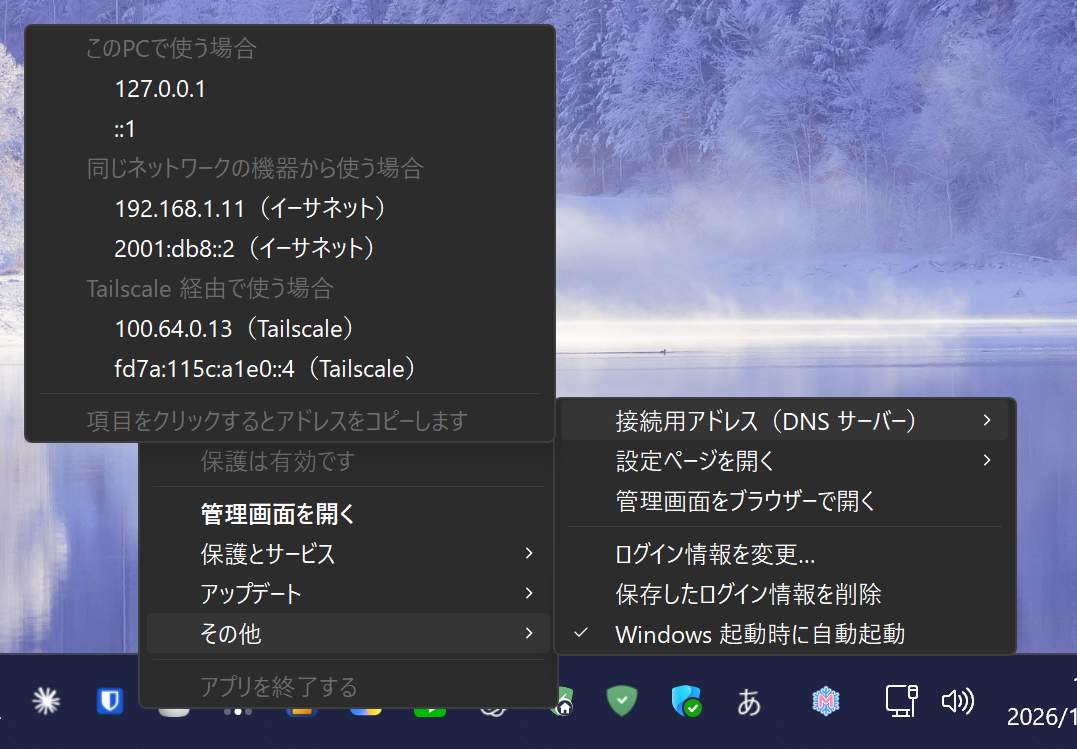
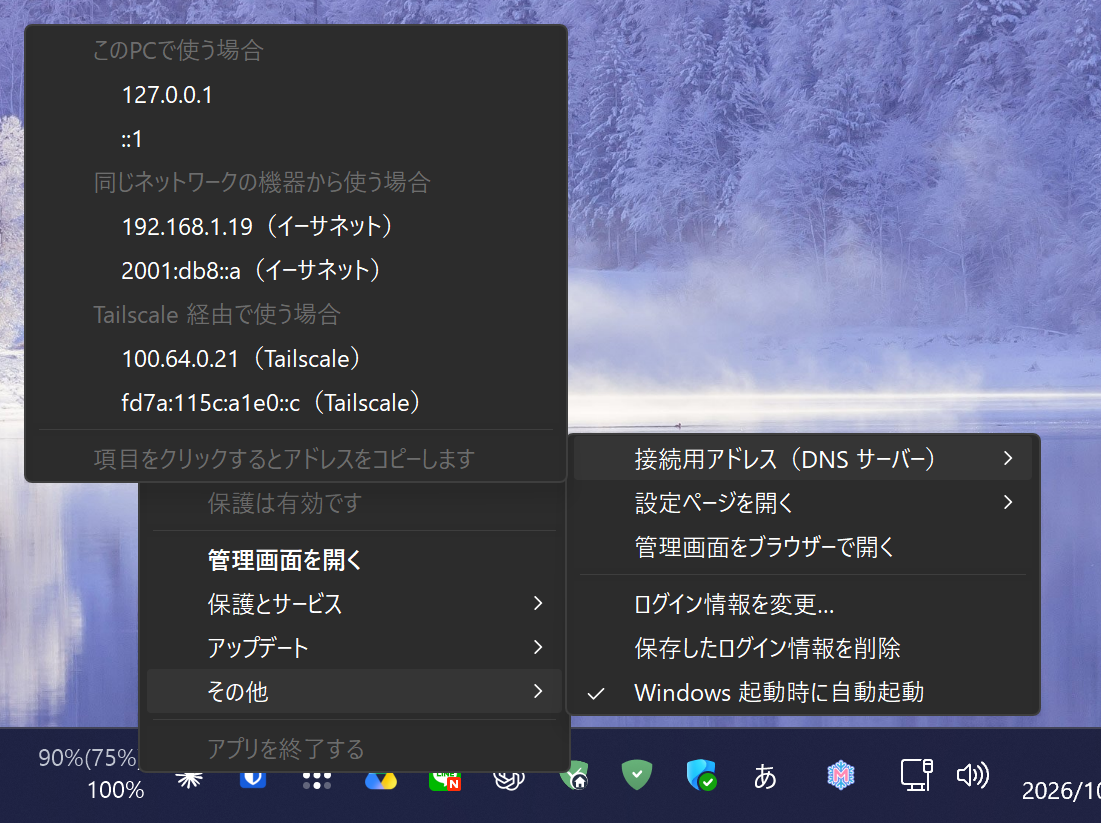
子メニューを親の項目より上に向かって開く（1.7.3）
通知領域のメニューは画面の下にあるため、子メニューも親の行から上へ伸びるようにした。
Win32 の標準メニューは下へ開くので、開いた直後（EVENT_SYSTEM_MENUPOPUPSTART）に、下端が親の項目の下端に
そろうよう位置を移す。「アップデート」の並びは元（版の表示が上、操作が下）に戻し、スクリーンショットを撮り直した。

diff --git a/src/TrayContext.SubmenuUp.cs b/src/TrayContext.SubmenuUp.cs
@@ -1,0 +1,67 @@
+// 子メニューを、親の項目より上に向かって開く（通知領域のメニューは画面の下にあるため）。
+// Windows 標準（Win32）のメニューは、子メニューを親の項目の上端に合わせて下へ開くので、
+// 子メニューのウィンドウが開いたことを WinEvent で受け取り、下端が親の項目の下端にそろうよう上へ移す。
+using System;
+using System.Runtime.InteropServices;
+using System.Windows.Forms;
+
+namespace AdGuardHomeTray
+{
+    partial class TrayContext
+    {
+        delegate void WinEventProc(IntPtr hook, uint evt, IntPtr hwnd, int idObject, int idChild, uint thread, uint time);
+
+        [DllImport("user32.dll")] static extern IntPtr SetWinEventHook(uint min, uint max, IntPtr module, WinEventProc proc, uint pid, uint tid, uint flags);
+        [DllImport("user32.dll")] static extern bool GetMenuItemRect(IntPtr hwnd, IntPtr hmenu, uint item, out RECT rc);
+        [DllImport("user32.dll")] static extern bool GetWindowRect(IntPtr hwnd, out RECT rc);
+        [DllImport("user32.dll")] static extern bool SetWindowPos(IntPtr hwnd, IntPtr after, int x, int y, int cx, int cy, uint flags);
+
+        [StructLayout(LayoutKind.Sequential)] struct RECT { public int Left, Top, Right, Bottom; }
+
+        const uint EVENT_SYSTEM_MENUPOPUPSTART = 0x0006, EVENT_SYSTEM_MENUPOPUPEND = 0x0007;
+        const uint SWP_NOSIZE = 0x0001, SWP_NOZORDER = 0x0004, SWP_NOACTIVATE = 0x0010;
+
+        WinEventProc submenuProc;   // ガベージコレクションで消えないよう保持する
+        int openPopups;
+        IntPtr selectedPopupMenu = IntPtr.Zero;   // 最後に選ばれた「子メニューを持つ項目」（WM_MENUSELECT で記録）
+        int selectedPopupPos = -1;
+
+        void InitSubmenuUp()
+        {
+            // 数え間違いが残らないよう、開くたび・閉じるたびに戻す
+            menu.Popup += delegate { openPopups = 0; selectedPopupMenu = IntPtr.Zero; };
+            menu.Collapse += delegate { openPopups = 0; selectedPopupMenu = IntPtr.Zero; };
+            submenuProc = OnMenuPopupEvent;
+            SetWinEventHook(EVENT_SYSTEM_MENUPOPUPSTART, EVENT_SYSTEM_MENUPOPUPEND, IntPtr.Zero, submenuProc,
+                (uint)System.Diagnostics.Process.GetCurrentProcess().Id, 0, 0 /* WINEVENT_OUTOFCONTEXT */);
+        }
+
+        // WM_MENUSELECT から呼ぶ。子メニューを持つ項目が選ばれたら、その位置を覚えておく
+        void RememberPopupSelection(IntPtr hmenu, int pos, int flags)
+        {
+            if (flags != 0xFFFF && (flags & 0x10 /* MF_POPUP */) != 0) { selectedPopupMenu = hmenu; selectedPopupPos = pos; }
+        }
+
+        void OnMenuPopupEvent(IntPtr hook, uint evt, IntPtr hwnd, int idObject, int idChild, uint thread, uint time)
+        {
+            if (evt == EVENT_SYSTEM_MENUPOPUPEND) { if (openPopups > 0) openPopups--; return; }
+            openPopups++;
+            if (openPopups < 2 || selectedPopupMenu == IntPtr.Zero) return;   // 最初のメニュー（通知領域のメニュー本体）は動かさない
+            try
+            {
+                RECT item, sub;
+                if (!GetMenuItemRect(IntPtr.Zero, selectedPopupMenu, (uint)selectedPopupPos, out item)) return;
+                if (!GetWindowRect(hwnd, out sub)) return;
+                int itemHeight = item.Bottom - item.Top, height = sub.Bottom - sub.Top;
+                int k = item.Top - sub.Top;   // 標準の位置では、子メニューの上端は親の項目の上端より少し上
+                if (k < 0 || k > itemHeight) return;   // すでに上へ開いている（画面に収まらなかった）場合はそのまま
+                int top = item.Bottom + k - height;
+                int workTop = Screen.FromHandle(hwnd).WorkingArea.Top;
+                if (top < workTop) top = workTop;
+                if (top >= sub.Top) return;
+                SetWindowPos(hwnd, IntPtr.Zero, sub.Left, top, 0, 0, SWP_NOSIZE | SWP_NOZORDER | SWP_NOACTIVATE);
+            }
+            catch { }
+        }
+    }
+}

diff --git a/src/AdGuardHomeTray.cs b/src/AdGuardHomeTray.cs
@@ -19,8 +19,8 @@ using Microsoft.Win32;
 [assembly: AssemblyDescription("AdGuard Home を通知領域から管理")]
 [assembly: AssemblyCompany("個人用ツール")]
 [assembly: AssemblyProduct("AdGuard Home Tray")]
-[assembly: AssemblyVersion("1.7.2.0")]
-[assembly: AssemblyFileVersion("1.7.2.0")]
+[assembly: AssemblyVersion("1.7.3.0")]
+[assembly: AssemblyFileVersion("1.7.3.0")]
 
 namespace AdGuardHomeTray
 {
@@ -157,7 +157,7 @@ namespace AdGuardHomeTray
             miUpdateNow = new MenuItem("今すぐ確認して更新", delegate { UpdateNow(); });
             miAutoUpdate = new MenuItem("自動で更新する（毎日）", delegate { ToggleAutoUpdate(); });
             var miUpdate = new MenuItem("アップデート");
-            miUpdate.MenuItems.AddRange(new MenuItem[] { miUpdateNow, miAutoUpdate, new MenuItem("-"), miAghVersion, miAppVersion });
+            miUpdate.MenuItems.AddRange(new MenuItem[] { miAghVersion, miAppVersion, new MenuItem("-"), miUpdateNow, miAutoUpdate });
 
             miAutoStart = new MenuItem("Windows 起動時に自動起動", delegate { ToggleAutoStart(); });
             // 終了はメインメニューの最後に常に表示する（見つからないと不安になるため）。
@@ -213,6 +213,7 @@ namespace AdGuardHomeTray
             };
             tray.Visible = true;
             InitMenuHover();
+            InitSubmenuUp();
 
             statusTimer = new System.Windows.Forms.Timer { Interval = 3000 };
             statusTimer.Tick += delegate { PollStatus(); };

diff --git a/src/TrayContext.MenuHover.cs b/src/TrayContext.MenuHover.cs
@@ -107,6 +107,7 @@ namespace AdGuardHomeTray
                 if (m.Msg == 0x011F /* WM_MENUSELECT */)
                 {
                     long w = m.WParam.ToInt64();
+                    try { owner.RememberPopupSelection(m.LParam, (int)(w & 0xFFFF), (int)((w >> 16) & 0xFFFF)); } catch { }
                     try { owner.OnMenuSelect(m.LParam, (int)(w & 0xFFFF), (int)((w >> 16) & 0xFFFF)); } catch { }
                 }
                 base.WndProc(ref m);
